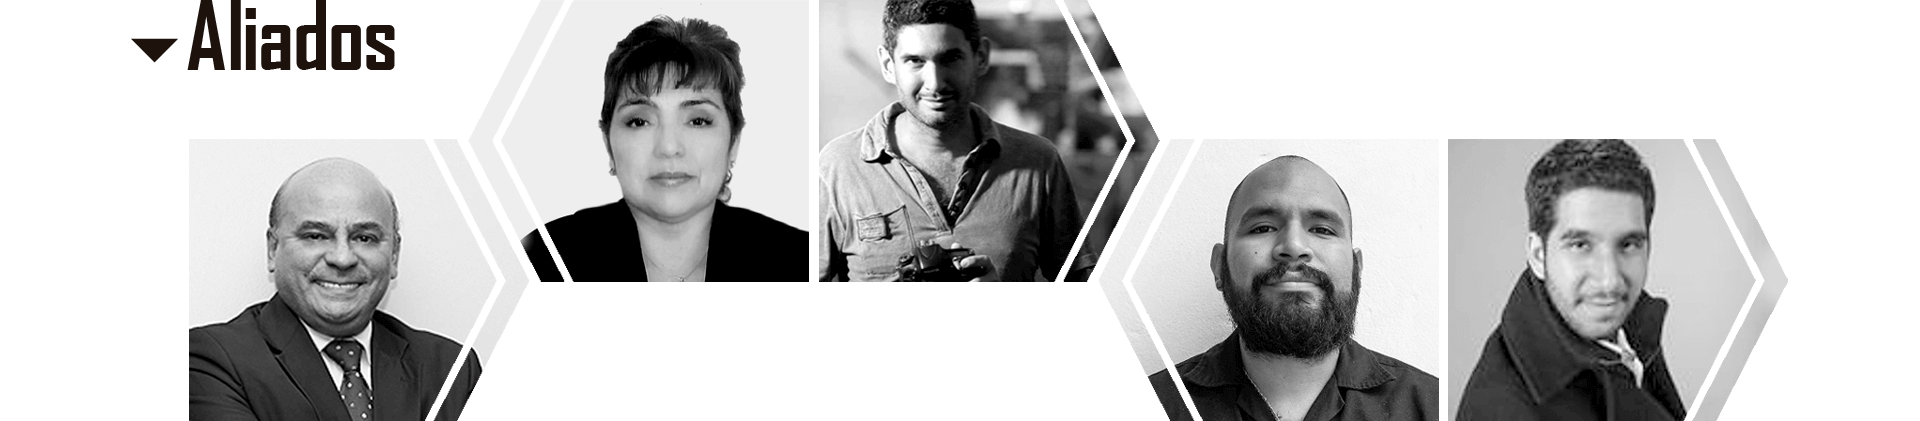
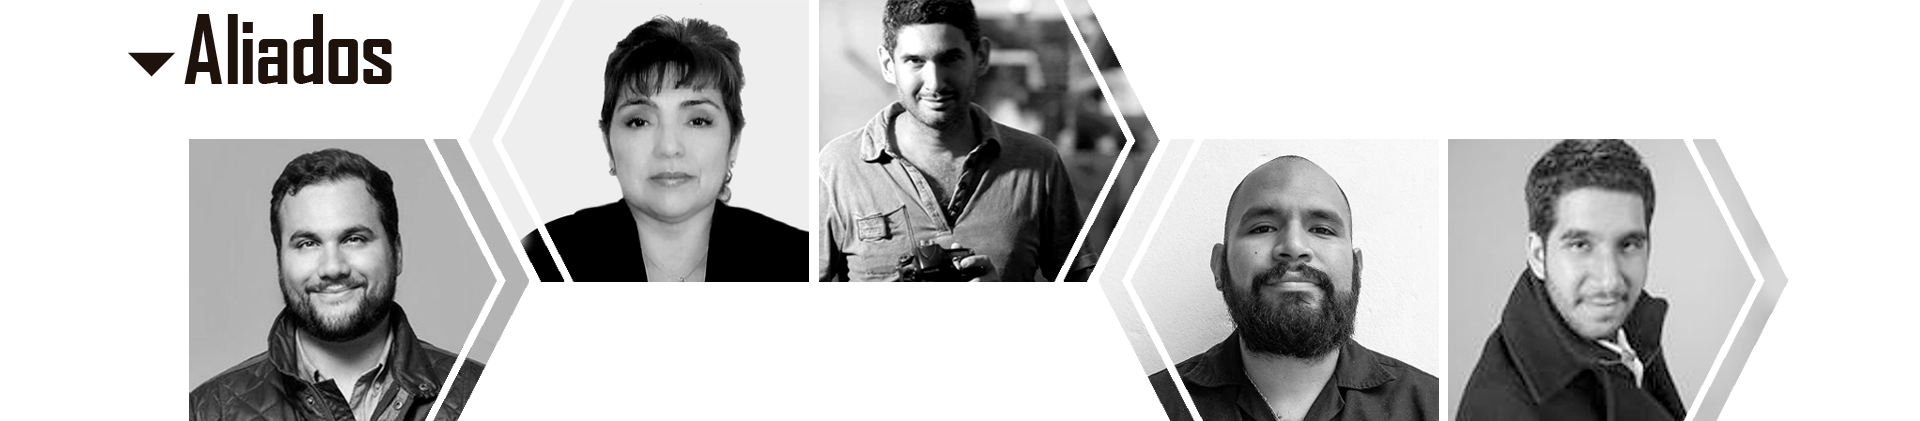
imagenen de conocenos cambiada

Changed region(s): [[0.0938, 0.3088, 0.2812, 1.0], [0.0625, 0.0, 0.2188, 0.2162]]

diff --git a/index.html b/index.html
@@ -415,9 +415,9 @@
 
                         <div class="aliados1">
 
-                            <h4><span><i class="fa fa-caret-down" aria-hidden="true"></i></span>Cesar Campos</h4>
-                            <h6>Periodista y Abogado</h6>
-                            <p>Periodista profesional y abogado colegiado con 20 años de experiencia como director y editor de diversas publicaciones nacionales, programas radiales y de TV. Especializado en temas políticos, jurídico-institucionales, locales e internacionales. También es consultor y asesor en imagen institucional y comunicaciones.</p>
+                            <h4><span><i class="fa fa-caret-down" aria-hidden="true"></i></span>Christian Dammert</h4>
+                            <h6>Marketing</h6>
+                            <p>Licenciado en Marketing de la Universidad de Lima con interés en áreas de Marketing, Innovación, Emprendimiento, Comunicación e Imagen. Socio  fundador de Lúmica Studios, estudio especializado Diseño 3D y 360, Realidad Virtual y Realidad Aumentada hasta Branding Inmobiliario, Fotografía Arquitectónica y Vuelos con Drone.</p>
 
                         </div>
                         <div class="aliados2">
@@ -796,7 +796,7 @@
      $(".st1").removeClass("st3");
     }
         
-   
+   });
    
         ///////////////////////////////
         
@@ -820,7 +820,7 @@
         
         /////////////////////////////////////
         
-        
+     $(window).scroll(function() {        
     if (scroll >= 1900) {
         $(".st0").addClass("st4");
         $(".st1").addClass("st3");
@@ -838,6 +838,8 @@
      $(".st0").removeClass("st8");
      $(".st1").removeClass("st9");
     }
+
+    });
         
         
         /////////////////////////////////////
@@ -845,8 +847,8 @@
    
        //////////////////////////////////////////////
         
-
-    if (scroll >= 3700) {
+        $(window).scroll(function() {    
+    if (scroll >= 3600) {
         $(".st0").addClass("st6");
         $(".st1").addClass("st7");
     }else

diff --git a/css/ovisestilos.css b/css/ovisestilos.css
@@ -1439,7 +1439,7 @@ ol {
 
 .conocenos .talentos-row .aliados1 {
   width: 50%;
-  padding-top: 2rem;
+  padding-top: 3rem;
   padding-left: 2rem;
   margin-top: -3rem;
   font-family: "Helvetica LT Std";
@@ -1465,7 +1465,7 @@ ol {
 
 .conocenos .talentos-row .aliados4 {
   width: 50%;
-  padding-top: 2rem;
+  padding-top: 3rem;
   padding-left: 4.5rem;
   margin-top: -3rem;
   font-family: "Helvetica LT Std";
@@ -1473,7 +1473,7 @@ ol {
 
 .conocenos .talentos-row .aliados5 {
   width: 50%;
-  padding-top: 2rem;
+  padding-top: 3rem;
   padding-left: 2rem;
   margin-top: -3rem;
   font-family: "Helvetica LT Std";
@@ -1481,13 +1481,14 @@ ol {
 
 .conocenos .talentos-row .aliados6 {
   width: 20%;
-  padding-top: 2rem;
+  padding-top: 3rem;
   padding-left: 2rem;
   margin-top: -3rem;
   font-family: "Helvetica LT Std";
   text-align: justify; }
 
 .conocenos .talentos-row .aliados7 {
+  display: none;
   width: 20%;
   padding-top: 2rem;
   padding-left: 4.5rem;

diff --git a/scss/ovisestilos.scss b/scss/ovisestilos.scss
@@ -1628,7 +1628,7 @@ ol {
 //segundos  li de conocenos aliados del 1 al 5 
 .conocenos .talentos-row .aliados1 {
    	width: 50%;
-   	padding-top: 2rem;
+   	padding-top: 3rem;
     padding-left: 2rem;
     margin-top: -3rem;
 
@@ -1659,7 +1659,7 @@ ol {
 
 .conocenos .talentos-row .aliados4 {
     	width: 50%;
-   	padding-top: 2rem;
+   	padding-top: 3rem;
     padding-left:4.5rem;
     margin-top: -3rem;
 
@@ -1669,7 +1669,7 @@ ol {
 
 .conocenos .talentos-row .aliados5 {
   width: 50%;
-    padding-top: 2rem;
+    padding-top: 3rem;
     padding-left:2rem;
     margin-top: -3rem;
 
@@ -1679,7 +1679,7 @@ ol {
 
 .conocenos .talentos-row .aliados6 {
        	width: 20%;
-   	padding-top: 2rem;
+   	padding-top: 3rem;
     padding-left: 2rem;
     margin-top: -3rem;
 
@@ -1689,6 +1689,7 @@ ol {
 }
 
 .conocenos .talentos-row .aliados7 {
+    display: none;
    	width: 20%;
     padding-top: 2rem;
     padding-left:4.5rem;
